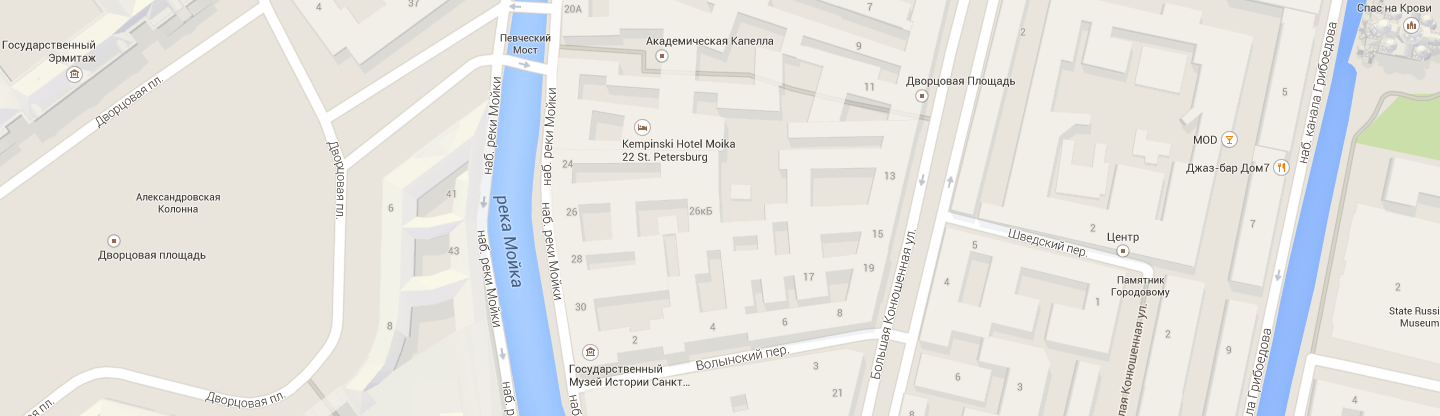
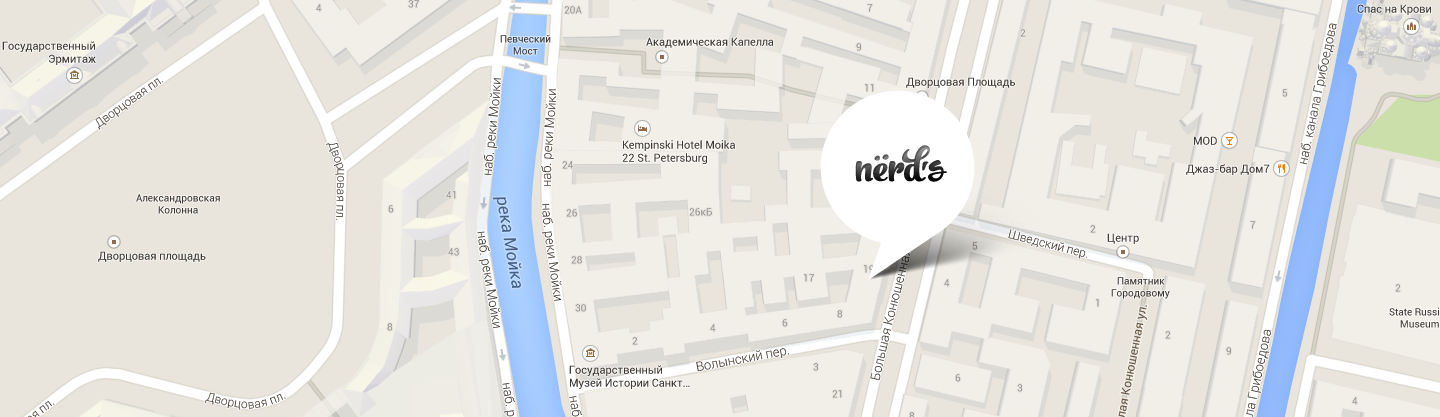
Fixed problem with horizontal scroll on 1200-1440px display width

diff --git a/css/style.css b/css/style.css
@@ -396,21 +396,7 @@ h3 {
 .contacts {
     position: relative;
     height: 416px;
-    background-image: url("../img/map.png");
-}
-
-.contacts::before {
-    width: 231px;
-    height: 190px;
-    left: 820px;
-    top: 90px;
-    position: absolute;
-    content: "";
-    background-image: url("../img/map-marker.png");
-}
-
-.contacts.container {
-    width: 1440px;
+    background: url("../img/map.png") center no-repeat;
     margin: 0 auto 60px;
     padding: 0;
 }

diff --git a/catalog.html b/catalog.html
@@ -186,7 +186,7 @@
             </div>
         </footer>
         <!--  всплывающее окно с формой отправки обратной связи -->
-        <div class="write-us-block" style="display: none;">
+    <div class="write-us-block">
             <header class="clearfix">
                 <h1>Напишите нам</h1>
                 <div class="write-us-block-close"></div>

diff --git a/index.html b/index.html
@@ -146,7 +146,7 @@
                     </div>
                 </div>
             </div>
-            <div class="contacts container">
+            <div class="contacts">
                 <div class="container">
                     <article class="contacts-list">
                         <h3>Nёrds design studio</h3>
